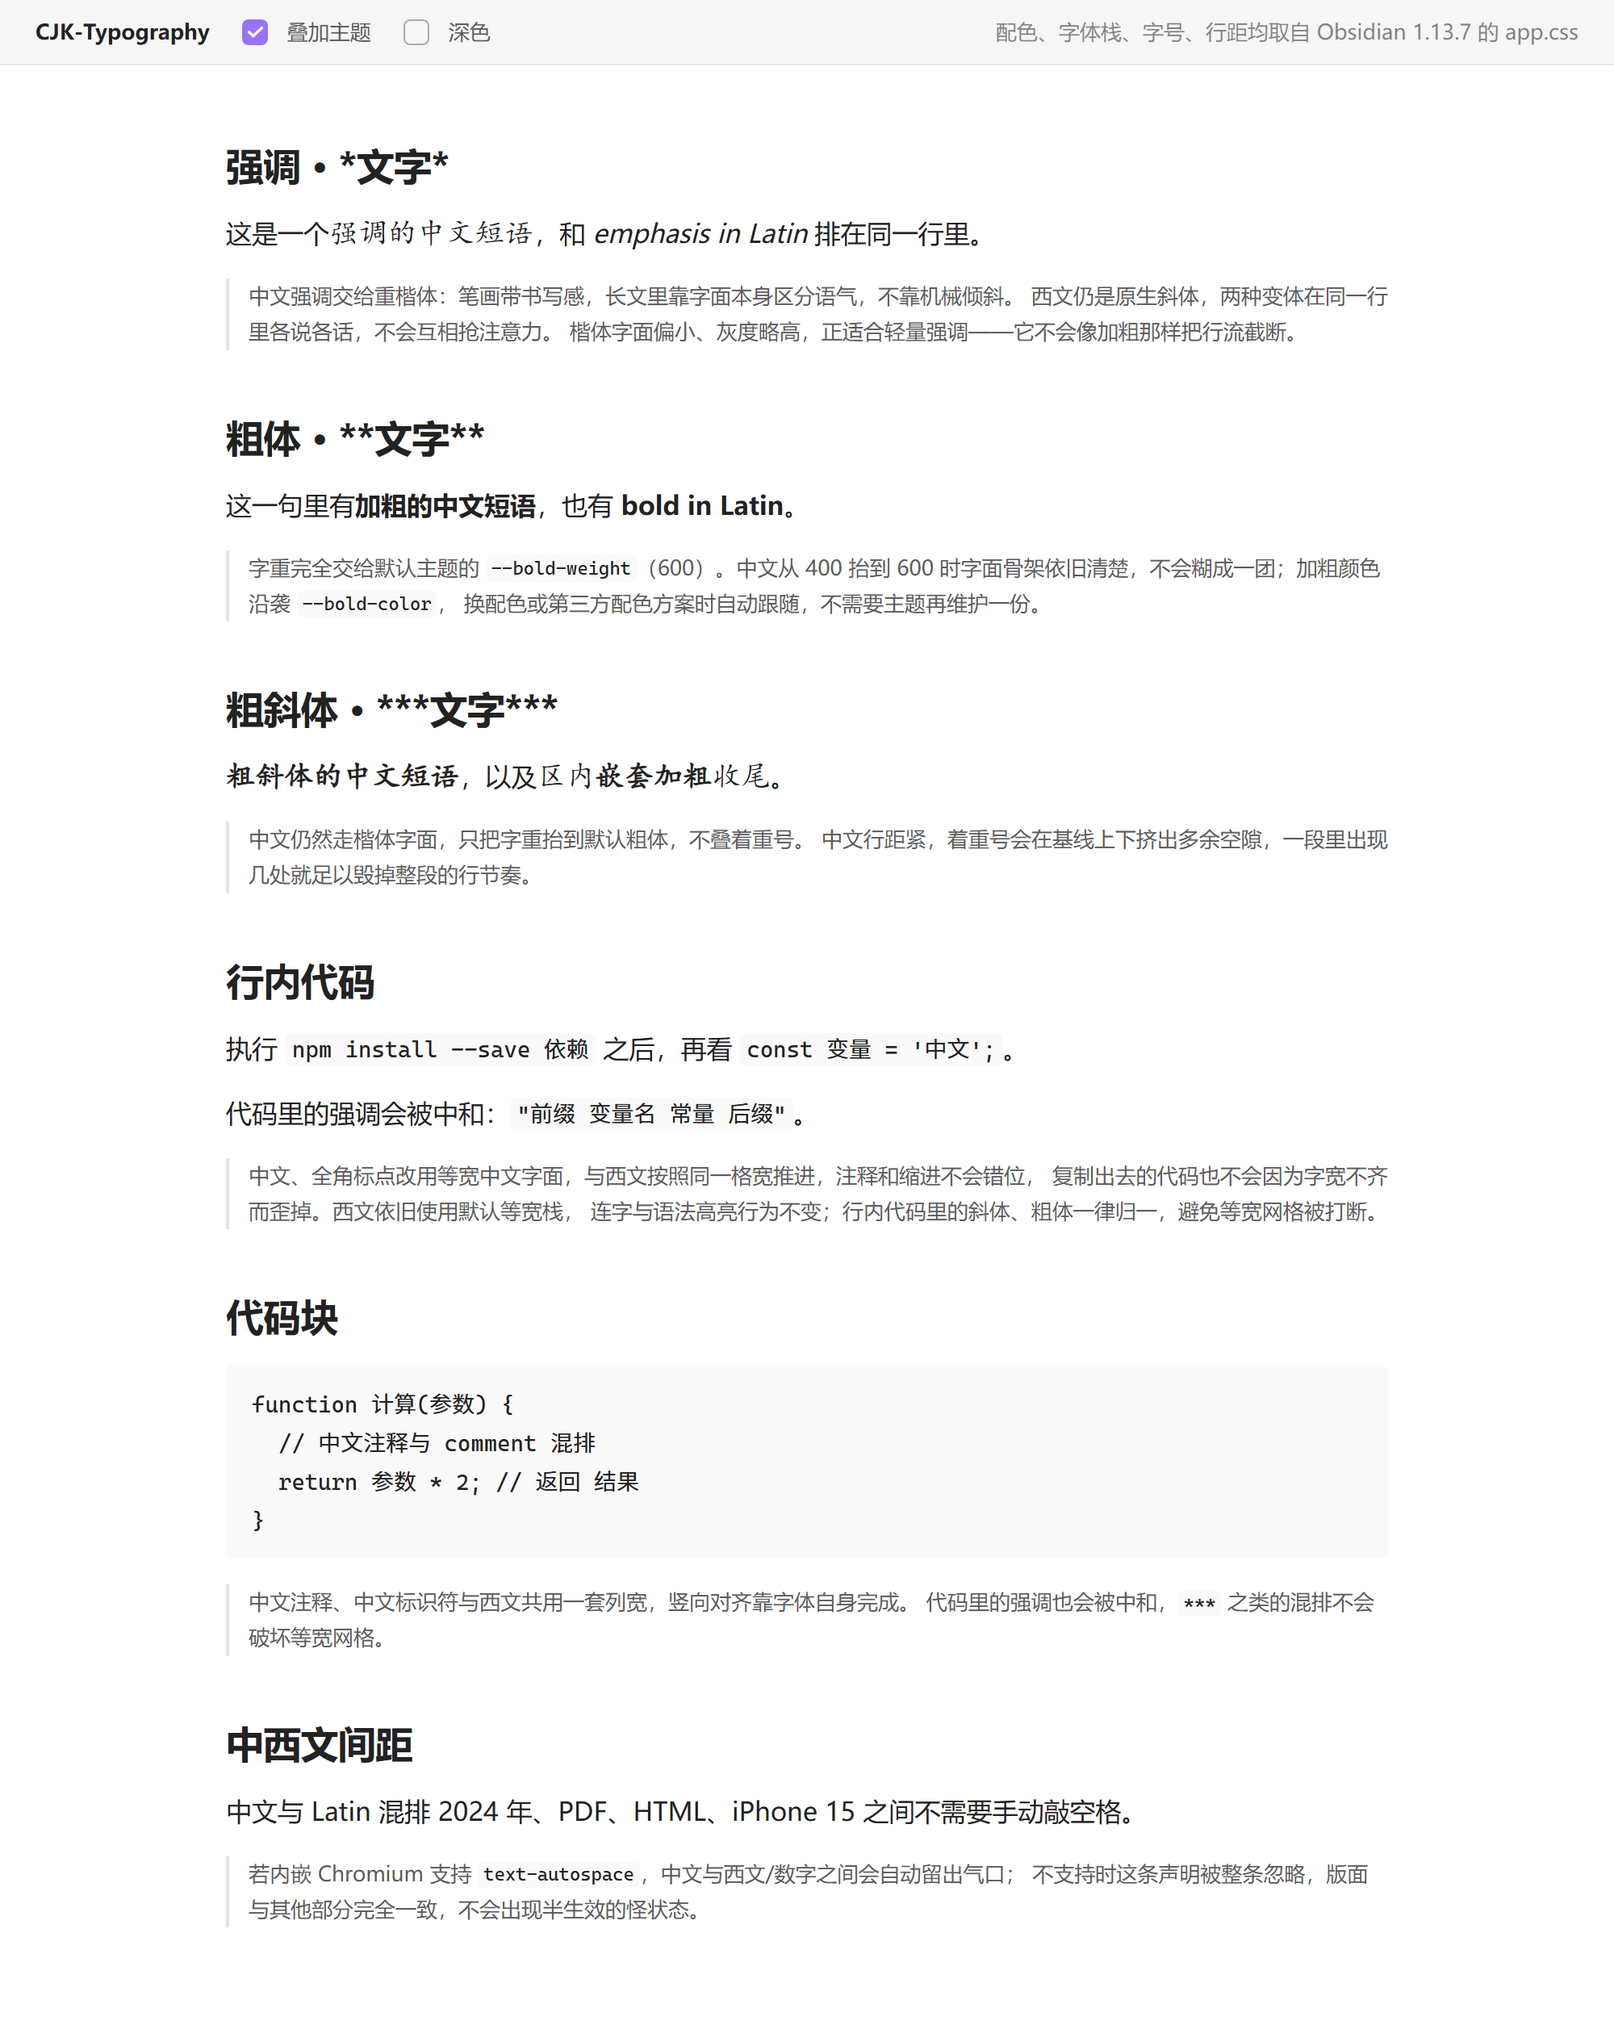
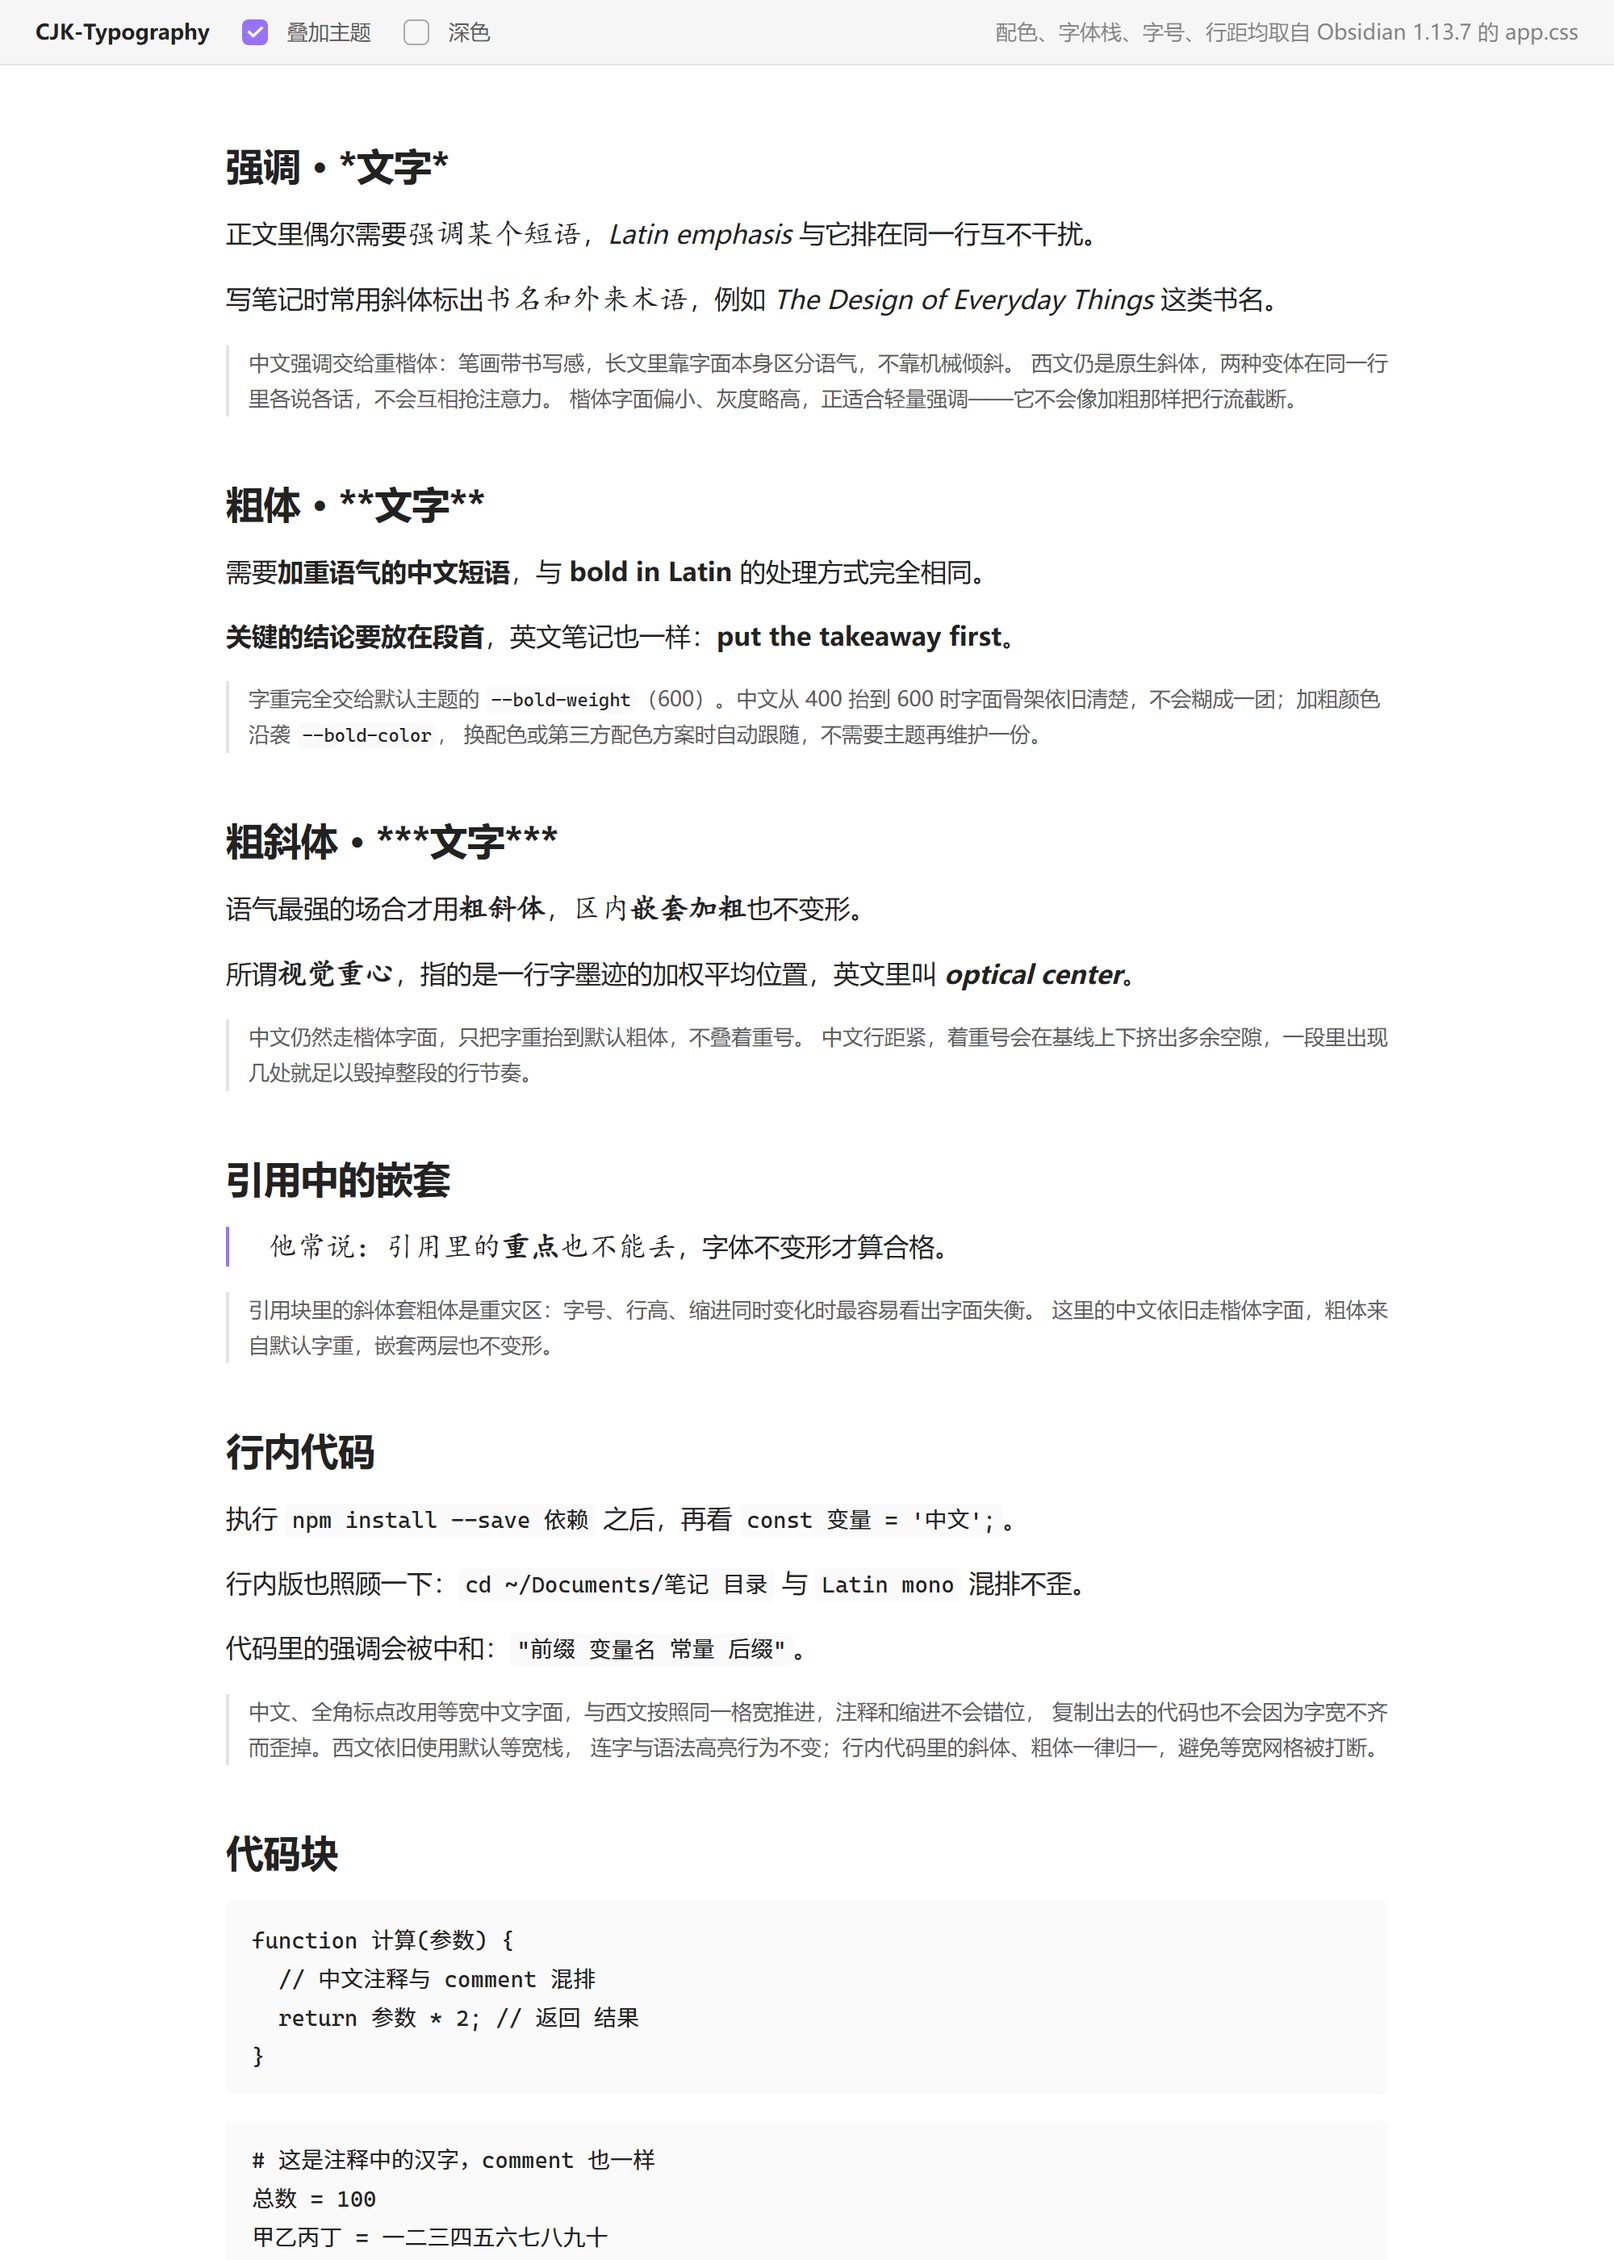
fix: 楷体墨迹基线偏上，em 微降 0.04em；润色示例文本
- 质心实测：size-adjust 后楷体墨迹 asc 86 / desc 10，正文雅黑
  asc 82 / desc 14，总高一致但楷体重心偏上 4px。基线全线共享、
  字体度量改不动字形位置，改在 em 上加 vertical-align: -0.04em。
- 质心复测：正体/斜体/粗体/粗斜体四行重心差 <= 0.17 CSS px。
- preview.html：示例文本改为自然的笔记语感，新增引用嵌套与
  Python 代码块样例。

diff --git a/preview.html b/preview.html
@@ -73,7 +73,8 @@
   <div class="markdown-preview-sizer">
 
     <h2>强调 · *文字*</h2>
-    <p>这是一个<em>强调的中文短语</em>，和 <em>emphasis in Latin</em> 排在同一行里。</p>
+    <p>正文里偶尔需要<em>强调某个短语</em>，<em>Latin emphasis</em> 与它排在同一行互不干扰。</p>
+    <p>写笔记时常用斜体标出<em>书名和外来术语</em>，例如 <em>The Design of Everyday Things</em> 这类书名。</p>
     <p class="cjk-note">
       中文强调交给重楷体：笔画带书写感，长文里靠字面本身区分语气，不靠机械倾斜。
       西文仍是原生斜体，两种变体在同一行里各说各话，不会互相抢注意力。
@@ -81,7 +82,8 @@
     </p>
 
     <h2>粗体 · **文字**</h2>
-    <p>这一句里有<strong>加粗的中文短语</strong>，也有 <strong>bold in Latin</strong>。</p>
+    <p>需要<strong>加重语气的中文短语</strong>，与 <strong>bold in Latin</strong> 的处理方式完全相同。</p>
+    <p><strong>关键的结论要放在段首</strong>，英文笔记也一样：<strong>put the takeaway first</strong>。</p>
     <p class="cjk-note">
       字重完全交给默认主题的 <code>--bold-weight</code>（600）。中文从 400 抬到 600
       时字面骨架依旧清楚，不会糊成一团；加粗颜色沿袭 <code>--bold-color</code>，
@@ -89,14 +91,23 @@
     </p>
 
     <h2>粗斜体 · ***文字***</h2>
-    <p><em><strong>粗斜体的中文短语</strong></em>，以及<em>区内<strong>嵌套加粗</strong>收尾</em>。</p>
+    <p>语气最强的场合才用<em><strong>粗斜体</strong></em>，<em>区内<strong>嵌套加粗</strong></em>也不变形。</p>
+    <p>所谓<em><strong>视觉重心</strong></em>，指的是一行字墨迹的加权平均位置，英文里叫 <em><strong>optical center</strong></em>。</p>
     <p class="cjk-note">
       中文仍然走楷体字面，只把字重抬到默认粗体，不叠着重号。
       中文行距紧，着重号会在基线上下挤出多余空隙，一段里出现几处就足以毁掉整段的行节奏。
     </p>
 
+    <h2>引用中的嵌套</h2>
+    <blockquote><p><em>他常说：引用里的<strong>重点</strong>也不能丢</em>，字体不变形才算合格。</p></blockquote>
+    <p class="cjk-note">
+      引用块里的斜体套粗体是重灾区：字号、行高、缩进同时变化时最容易看出字面失衡。
+      这里的中文依旧走楷体字面，粗体来自默认字重，嵌套两层也不变形。
+    </p>
+
     <h2>行内代码</h2>
     <p>执行 <code>npm install --save 依赖</code> 之后，再看 <code>const 变量 = '中文';</code>。</p>
+    <p>行内版也照顾一下：<code>cd ~/Documents/笔记 目录</code> 与 <code>Latin mono</code> 混排不歪。</p>
     <p>代码里的强调会被中和：<code>"前缀 <em>变量名</em> <strong>常量</strong> 后缀"</code>。</p>
     <p class="cjk-note">
       中文、全角标点改用等宽中文字面，与西文按照同一格宽推进，注释和缩进不会错位，
@@ -109,6 +120,9 @@
   // 中文注释与 comment 混排
   return 参数 * 2; // 返回 结果
 }</code></pre>
+    <pre><code># 这是注释中的汉字，comment 也一样
+总数 = 100
+甲乙丙丁 = 一二三四五六七八九十</code></pre>
     <p class="cjk-note">
       中文注释、中文标识符与西文共用一套列宽，竖向对齐靠字体自身完成。
       代码里的强调也会被中和，<code>***</code> 之类的混排不会破坏等宽网格。

diff --git a/_m.html b/_m.html
@@ -1,0 +1,18 @@
+<!doctype html>
+<html><head><meta charset="utf-8"><title>measure</title>
+<link rel="stylesheet" href="preview-default-theme.css">
+<link rel="stylesheet" href="theme.css">
+<style>
+  /* 测量专用页：每行绝对定位，保证四行的行框像素级同位 */
+  html { height: auto !important; overflow: visible !important; }
+  body.theme-light {
+    contain: none !important; height: auto !important; overflow: visible !important; margin: 0;
+  }
+  .s { position: absolute; left: 24px; right: 24px; height: 32px; line-height: 32px; font-size: 16px; }
+</style></head>
+<body class="theme-light markdown-rendered">
+<div class="s" style="top:8px">正文内容与斜体测试防止汉字字符重叠</div>
+<div class="s" style="top:40px">正文内容与<em>斜体测试</em>防止汉字字符重叠</div>
+<div class="s" style="top:72px">正文内容与<strong>斜体测试</strong>防止汉字字符重叠</div>
+<div class="s" style="top:104px">正文内容与<em><strong>斜体测试</strong></em>防止汉字字符重叠</div>
+</body></html>

diff --git a/theme.css b/theme.css
@@ -37,6 +37,9 @@
 em,
 .cm-em {
   font-family: "CJK-Em", var(--font-text);
+  /* 楷体墨迹相对基线偏上（100px 下 asc 86 vs 雅黑 82），整体微降 0.04em
+     对齐正文字面；量级小于行框余量，不会撑大行高。 */
+  vertical-align: -0.04em;
   /* 只换字体：字重、颜色、italic 仍由默认主题决定 */
 }
 

diff --git a/cjk-typography.css b/cjk-typography.css
@@ -20,6 +20,8 @@
 em,
 .cm-em {
   font-family: "CJK-Em", var(--font-text);
+  /* 楷体墨迹相对基线偏上，整体微降 0.04em 对齐正文字面 */
+  vertical-align: -0.04em;
   /* 不设置 font-weight、font-style：完全继承 Obsidian 默认的 em 样式 */
 }
 
